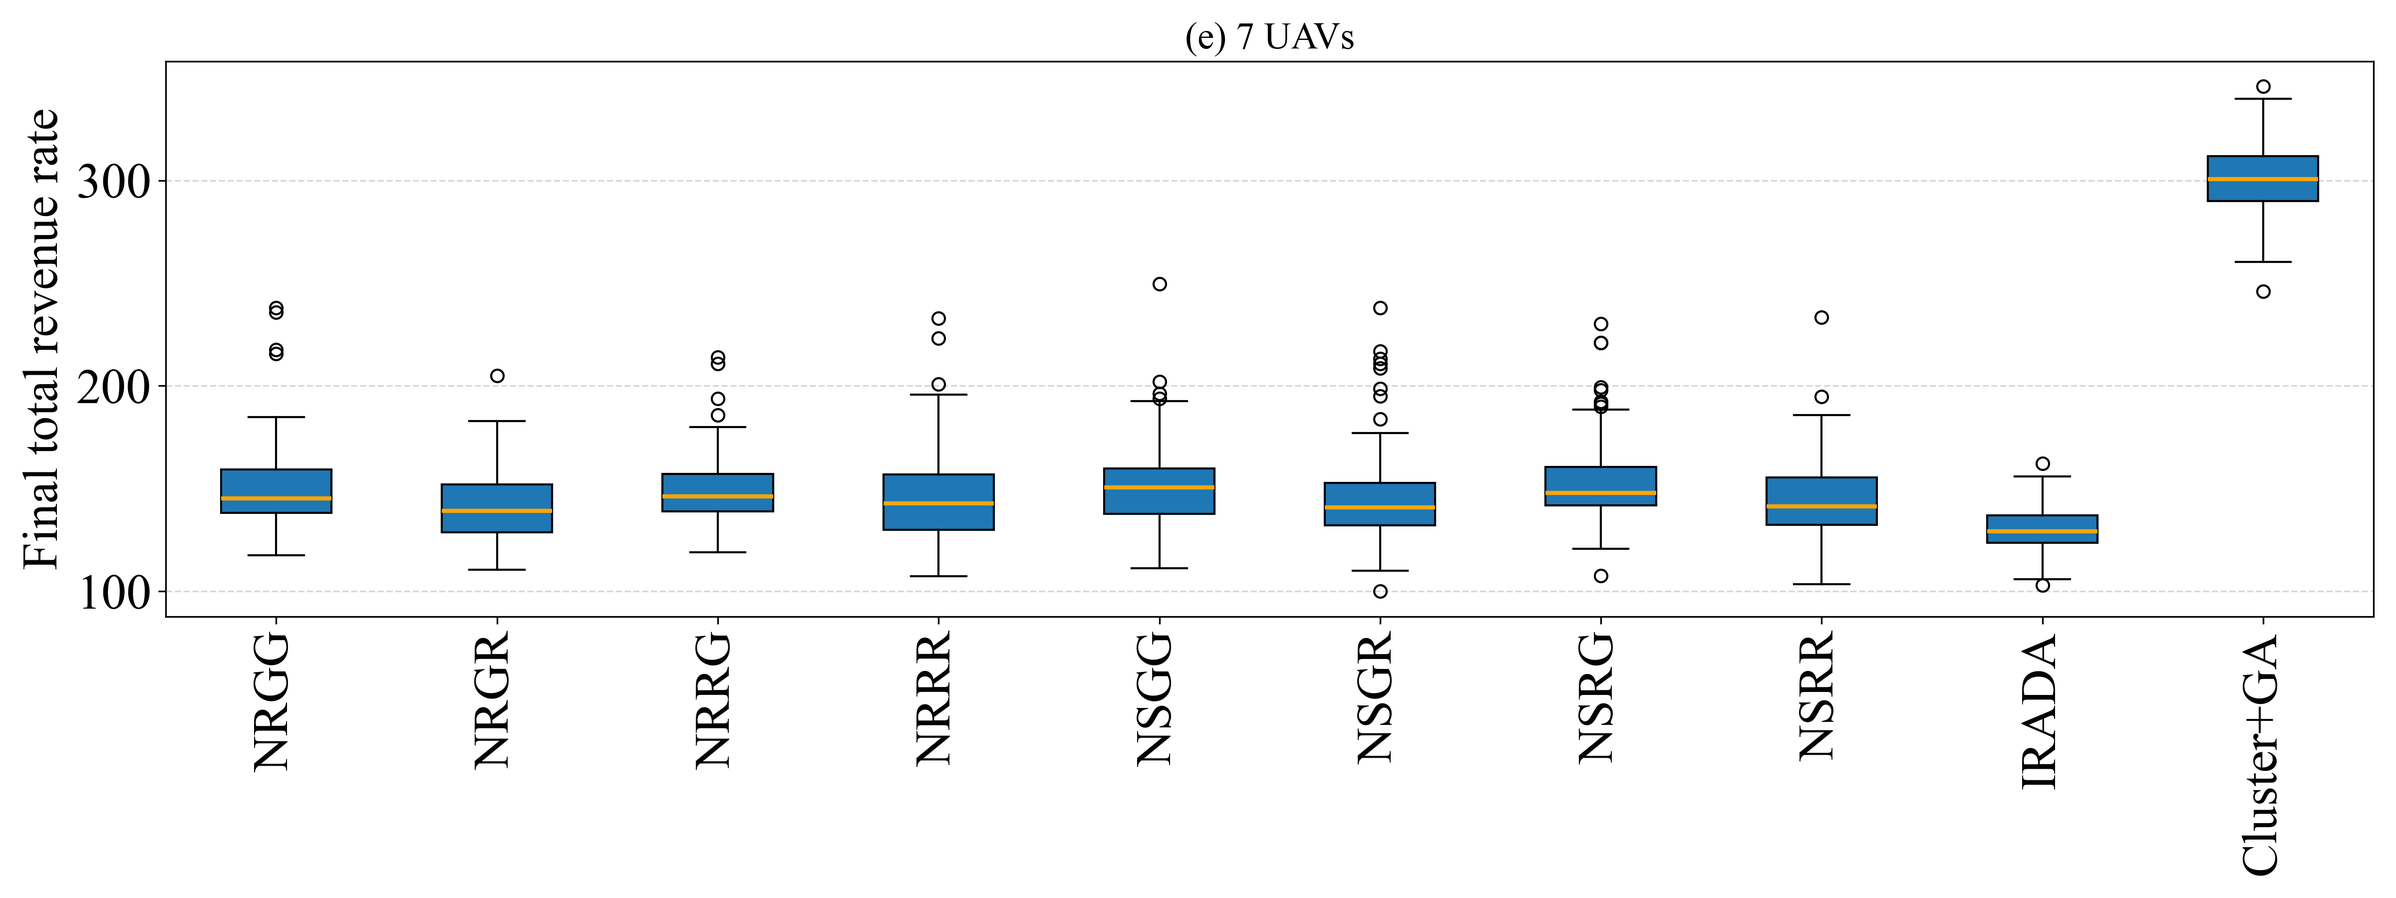
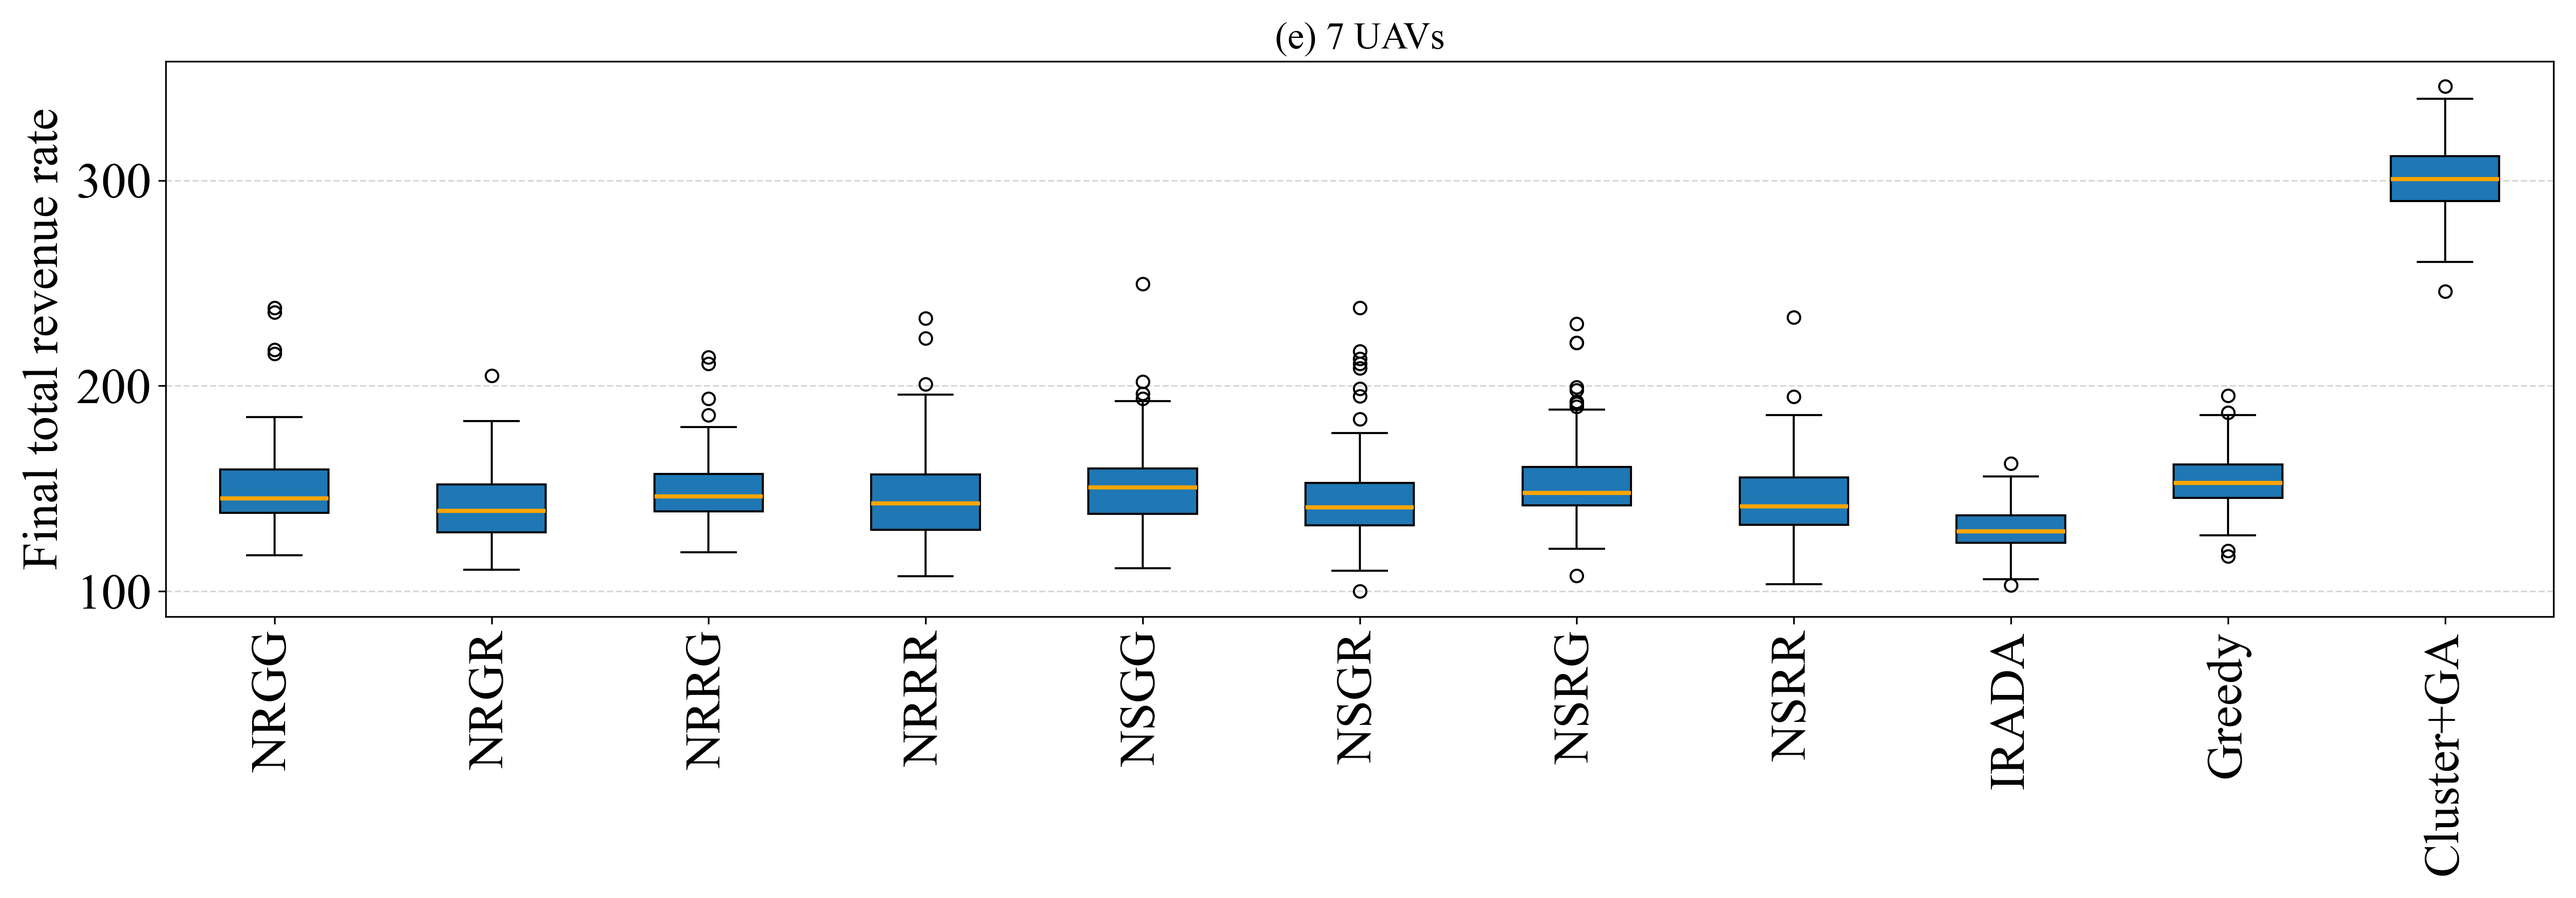
include greedy results in revenue rate comparisons

diff --git a/revenue_rate_comparison.py b/revenue_rate_comparison.py
@@ -155,9 +155,9 @@ def _series_for_uav_count(
         {
             "NRGG": [...],
             "NSGG": [...],
+            "IRADA": [...],
             "Greedy": [...],
             "Cluster+GA": [...],
-            "IRADA": [...],
         }
 
     for one UAV count.
@@ -200,7 +200,7 @@ def _series_for_uav_count(
             series[label].extend(rates)
 
     # Same logic as Analysis.py:
-    # NonOverlap labels first, then other algorithms, IRADA last.
+    # NonOverlap labels first, then other algorithms
     nonoverlap_labels = sorted(nonoverlap_labels)
 
     ordered_labels = nonoverlap_labels.copy()
@@ -257,7 +257,6 @@ def plot_final_revenue_rate_comparison(
         / f"UAVs{uav_count}_final_total_revenue_rate.png"
     )
 
-    # Same format as Analysis.py::boxplot_final_totals_with_irada()
     fig, axis = plt.subplots(
         figsize=(1.2 * len(labels) + 4, 6)
     )
@@ -268,12 +267,10 @@ def plot_final_revenue_rate_comparison(
         patch_artist=True,
     )
 
-    # Same blue boxes and black edges as Analysis.py.
     for box in boxplot["boxes"]:
         box.set_facecolor("C0")
         box.set_edgecolor("black")
 
-    # Same orange median line as Analysis.py.
     for median in boxplot["medians"]:
         median.set(color="orange", linewidth=2)
 
@@ -348,7 +345,7 @@ if __name__ == "__main__":
 
         "Greedy": {
             "root": Path("results/greedy"),
-            "workbook_pattern": "*Greedy*.xlsx",
+            "workbook_pattern": "*.xlsx",
             "kind": "single",
         },
 
